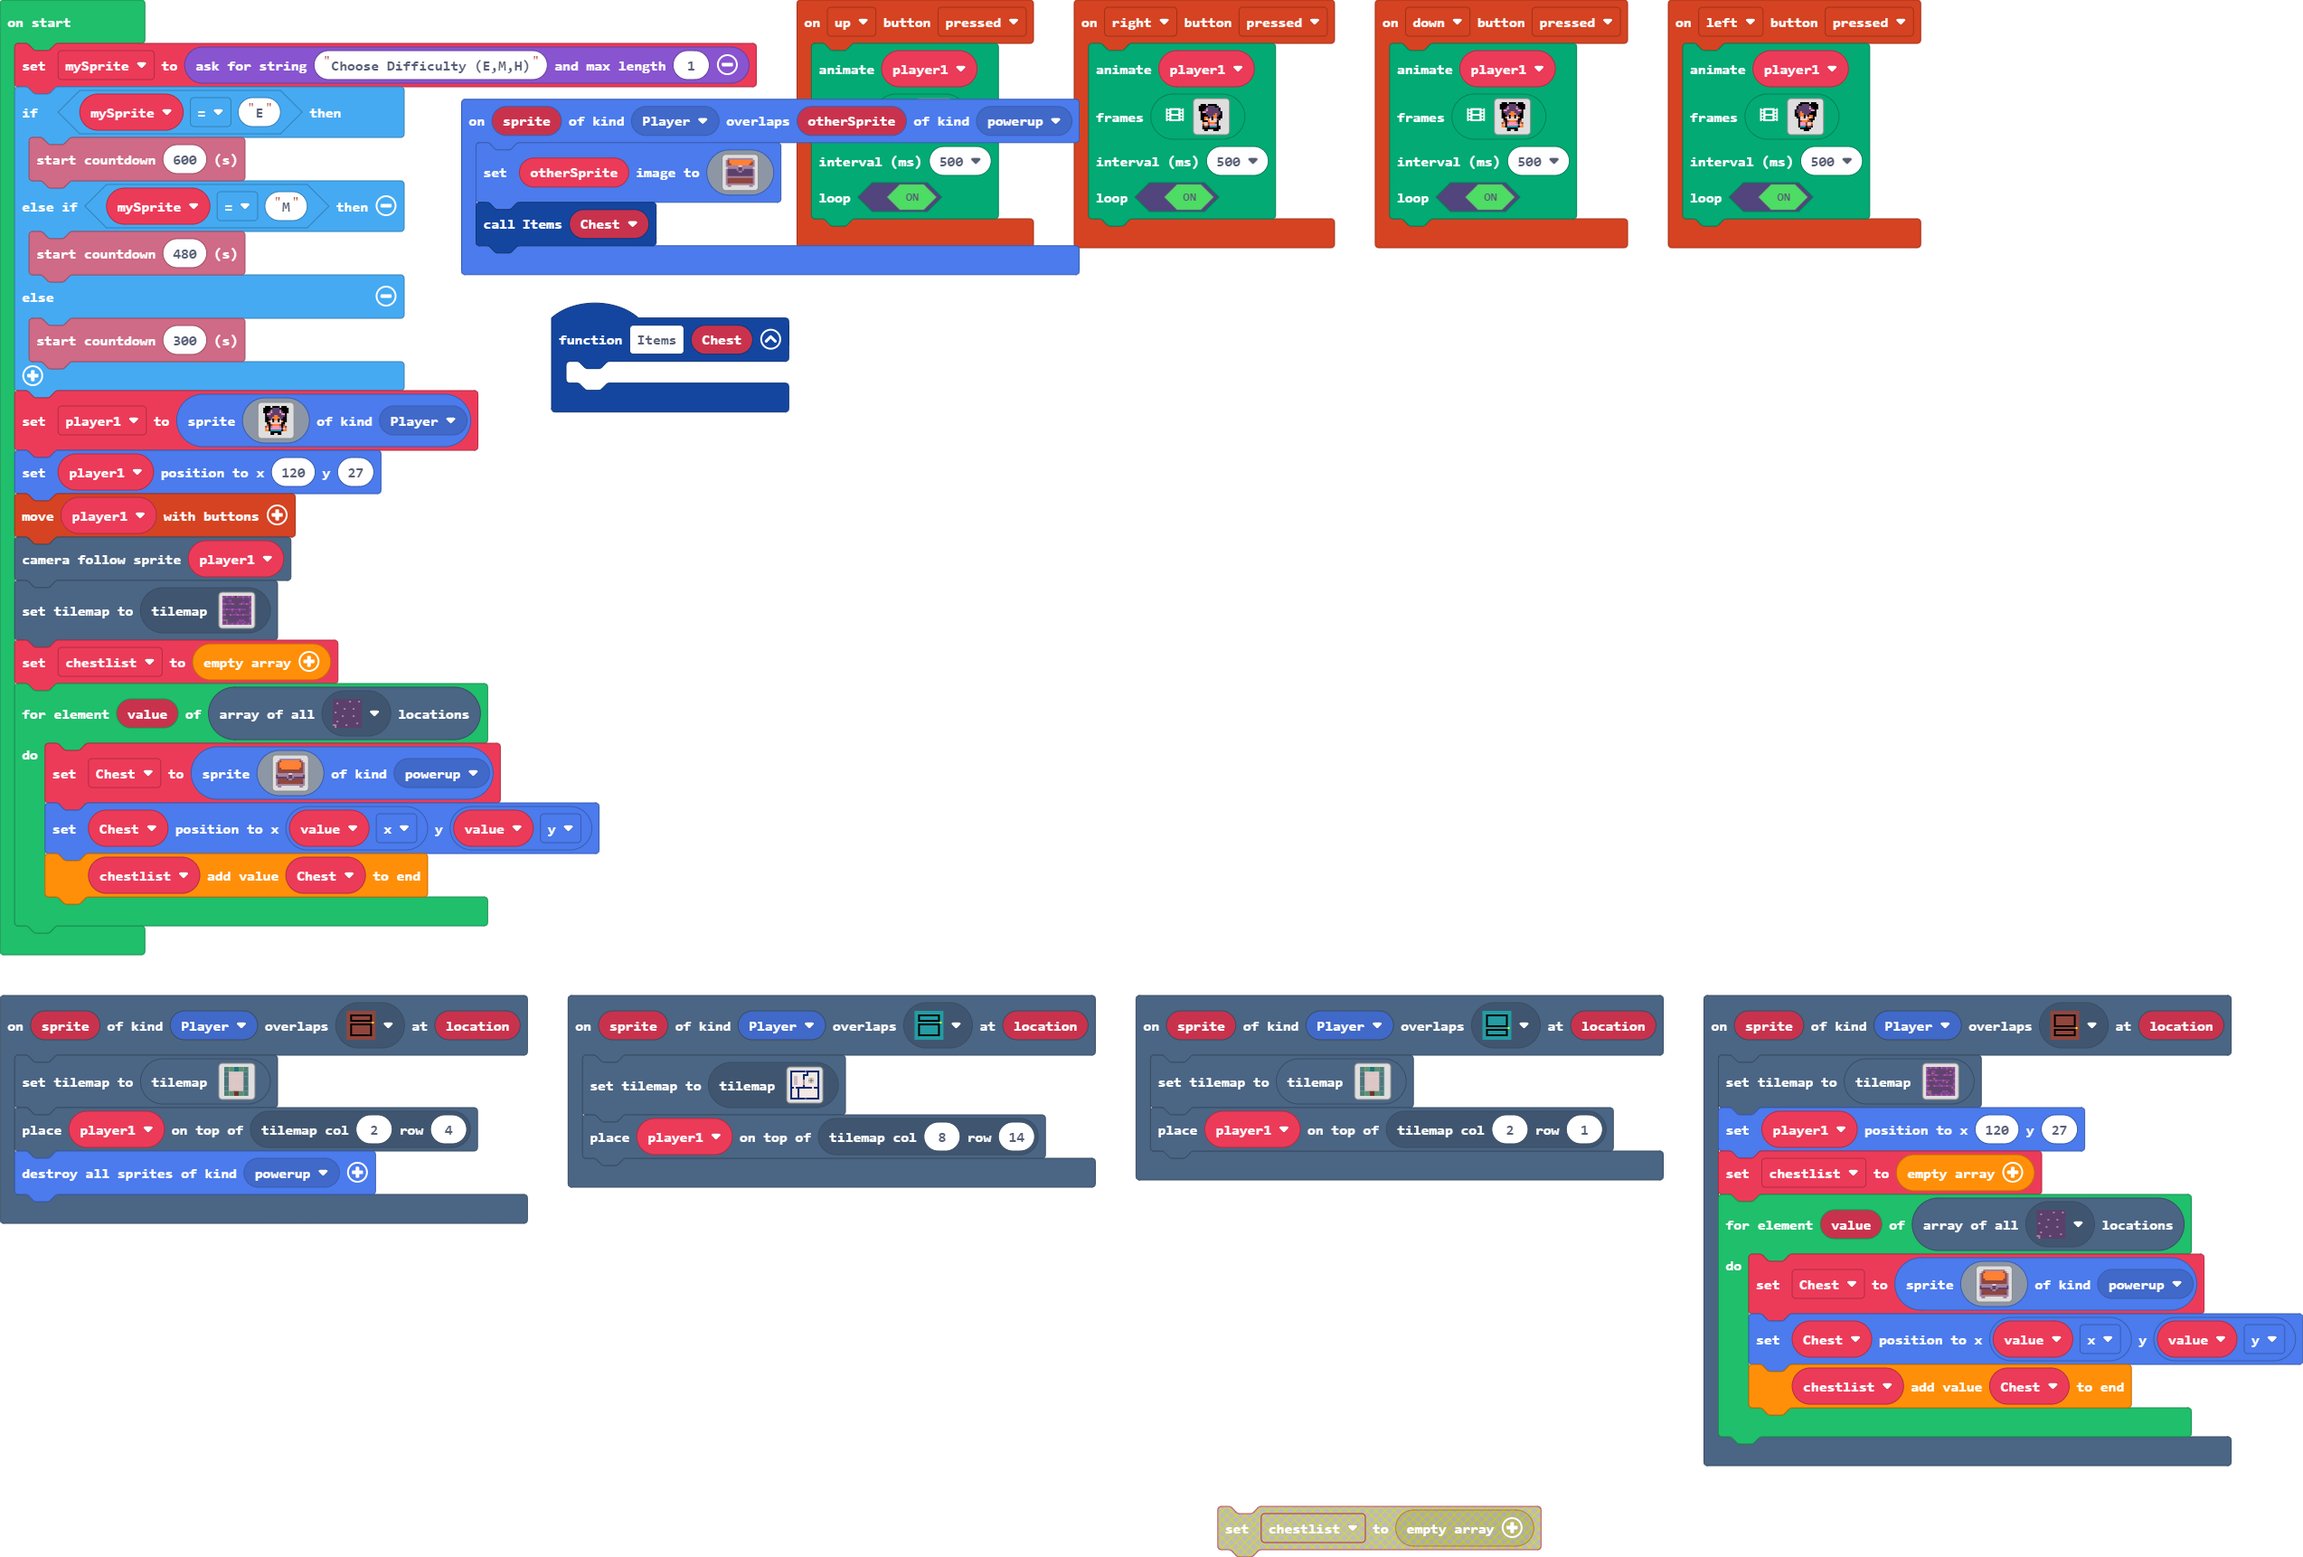
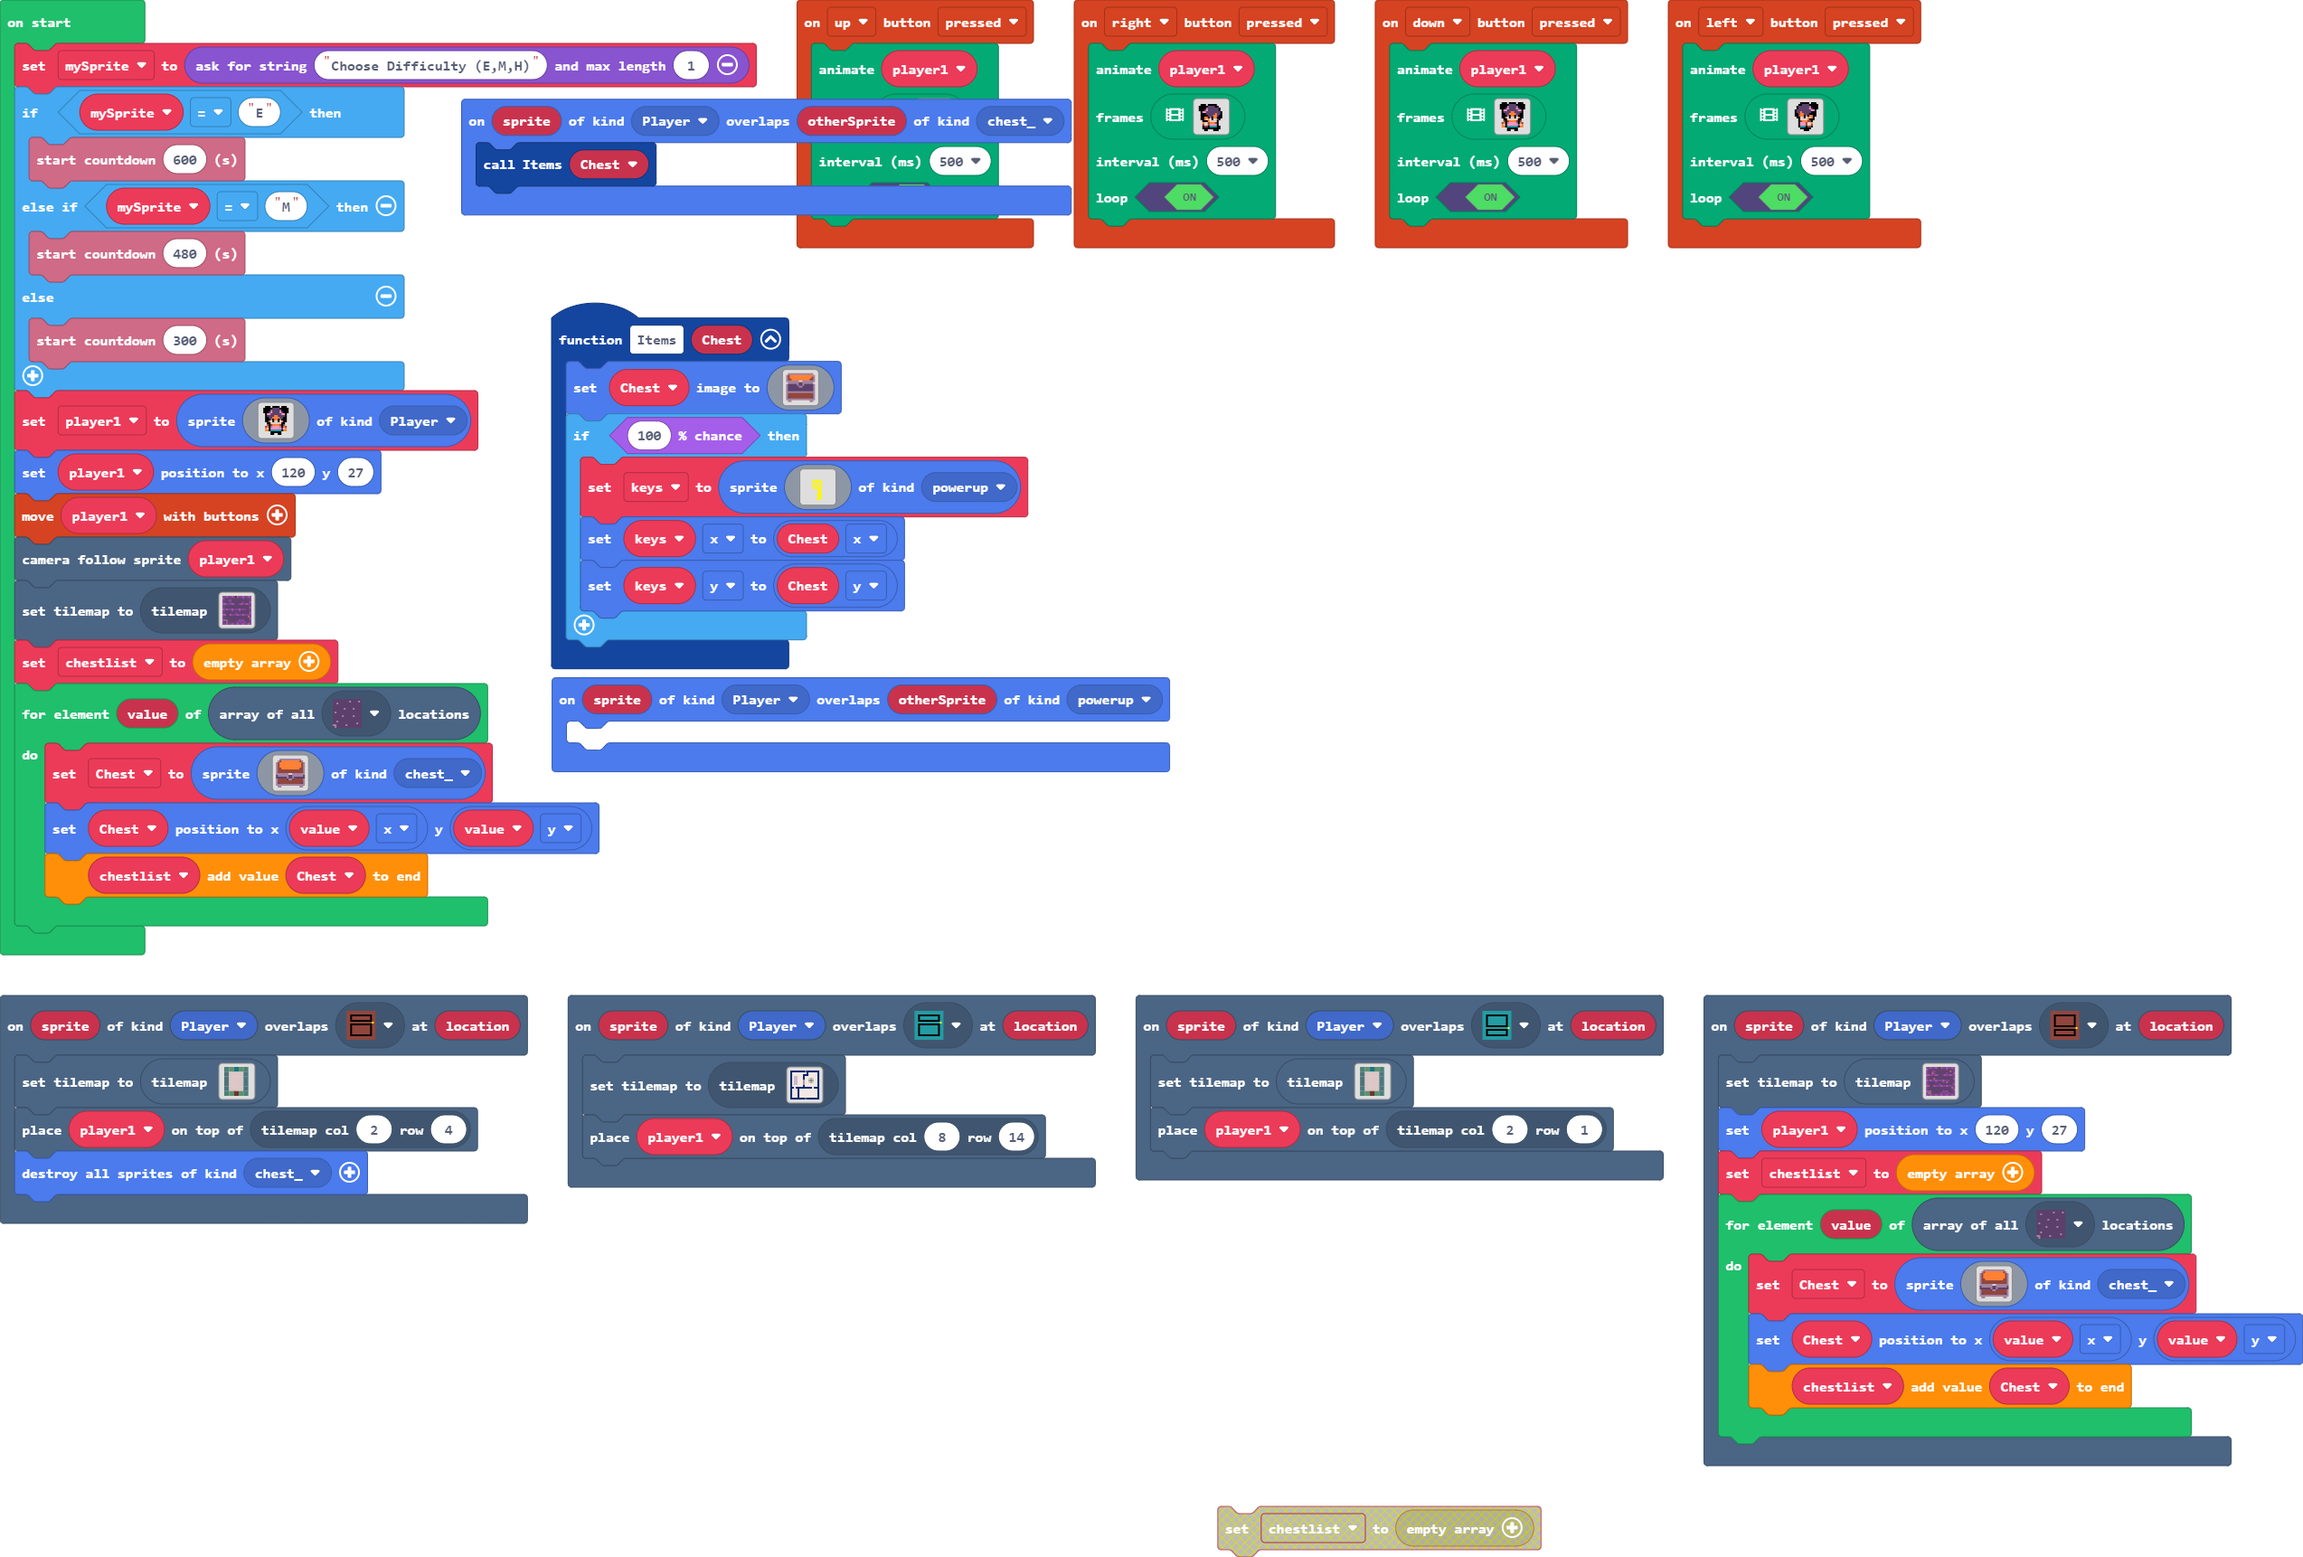
Continued from last save

diff --git a/main.ts b/main.ts
@@ -1,5 +1,6 @@
 namespace SpriteKind {
     export const powerup = SpriteKind.create()
+    export const chest_ = SpriteKind.create()
 }
 scene.onOverlapTile(SpriteKind.Player, assets.tile`myTile0`, function (sprite, location) {
     tiles.setCurrentTilemap(tilemap`level1`)
@@ -23,7 +24,7 @@ scene.onOverlapTile(SpriteKind.Player, assets.tile`myTile0`, function (sprite, l
             b c e e e e e e e e e e e e c b 
             b b b b b b b b b b b b b b b b 
             . b b . . . . . . . . . . b b . 
-            `, SpriteKind.powerup)
+            `, SpriteKind.chest_)
         Chest.setPosition(value.x, value.y)
         chestlist.push(Chest)
     }
@@ -88,16 +89,58 @@ controller.up.onEvent(ControllerButtonEvent.Pressed, function () {
     )
 })
 function Items (Chest: Sprite) {
-	
+    Chest.setImage(img`
+        . b b b b b b b b b b b b b b . 
+        b e 4 4 4 4 4 4 4 4 4 4 4 4 4 b 
+        b e 4 4 4 4 4 4 4 4 4 4 4 4 e b 
+        b e e 4 4 4 4 4 4 4 4 4 4 e e b 
+        b b b b b b b d d b b b b b b b 
+        . b b b b b b c c b b b b b b . 
+        b c c c c c b c c b c c c c c b 
+        b c c c c c c b b c c c c c c b 
+        b c c c c c c c c c c c c c c b 
+        b c c c c c c c c c c c c c c b 
+        b b b b b b b b b b b b b b b b 
+        b e e e e e e e e e e e e e e b 
+        b e e e e e e e e e e e e e e b 
+        b c e e e e e e e e e e e e c b 
+        b b b b b b b b b b b b b b b b 
+        . b b . . . . . . . . . . b b . 
+        `)
+    if (Math.percentChance(100)) {
+        keys = sprites.create(img`
+            . . . . . . . . . . . . . . . . 
+            . . . . . . . . . . . . . . . . 
+            . . . . . . . . . . . . . . . . 
+            . . . . . . . . . . . . . . . . 
+            . . . . . 5 5 5 5 5 . . . . . . 
+            . . . . . 5 . 5 . 5 . . . . . . 
+            . . . . . 5 5 . 5 5 . . . . . . 
+            . . . . . 5 . 5 . 5 . . . . . . 
+            . . . . . 5 5 5 5 5 . . . . . . 
+            . . . . . . . . 5 5 . . . . . . 
+            . . . . . . . . 5 5 . . . . . . 
+            . . . . . . . . 5 5 . . . . . . 
+            . . . . . . . 5 5 5 . . . . . . 
+            . . . . . . . . 5 5 . . . . . . 
+            . . . . . . . 5 5 5 . . . . . . 
+            . . . . . . . . . . . . . . . . 
+            `, SpriteKind.powerup)
+        keys.x = Chest.x
+        keys.y = Chest.y
+    }
 }
 scene.onOverlapTile(SpriteKind.Player, assets.tile`myTile`, function (sprite, location) {
     tiles.setCurrentTilemap(tilemap`level5`)
     tiles.placeOnTile(player1, tiles.getTileLocation(2, 4))
-    sprites.destroyAllSpritesOfKind(SpriteKind.powerup)
+    sprites.destroyAllSpritesOfKind(SpriteKind.chest_)
 })
 scene.onOverlapTile(SpriteKind.Player, assets.tile`myTile7`, function (sprite, location) {
     tiles.setCurrentTilemap(tilemap`level5`)
     tiles.placeOnTile(player1, tiles.getTileLocation(2, 1))
+})
+sprites.onOverlap(SpriteKind.Player, SpriteKind.chest_, function (sprite, otherSprite) {
+    Items(Chest)
 })
 controller.left.onEvent(ControllerButtonEvent.Pressed, function () {
     animation.runImageAnimation(
@@ -281,26 +324,9 @@ scene.onOverlapTile(SpriteKind.Player, assets.tile`myTile2`, function (sprite, l
     tiles.placeOnTile(player1, tiles.getTileLocation(8, 14))
 })
 sprites.onOverlap(SpriteKind.Player, SpriteKind.powerup, function (sprite, otherSprite) {
-    otherSprite.setImage(img`
-        . b b b b b b b b b b b b b b . 
-        b e 4 4 4 4 4 4 4 4 4 4 4 4 4 b 
-        b e 4 4 4 4 4 4 4 4 4 4 4 4 e b 
-        b e e 4 4 4 4 4 4 4 4 4 4 e e b 
-        b b b b b b b d d b b b b b b b 
-        . b b b b b b c c b b b b b b . 
-        b c c c c c b c c b c c c c c b 
-        b c c c c c c b b c c c c c c b 
-        b c c c c c c c c c c c c c c b 
-        b c c c c c c c c c c c c c c b 
-        b b b b b b b b b b b b b b b b 
-        b e e e e e e e e e e e e e e b 
-        b e e e e e e e e e e e e e e b 
-        b c e e e e e e e e e e e e c b 
-        b b b b b b b b b b b b b b b b 
-        . b b . . . . . . . . . . b b . 
-        `)
-    Items(Chest)
+	
 })
+let keys: Sprite = null
 let Chest: Sprite = null
 let chestlist: Sprite[] = []
 let player1: Sprite = null
@@ -353,7 +379,7 @@ for (let value of tiles.getTilesByType(sprites.dungeon.darkGroundNorthEast1)) {
         b c e e e e e e e e e e e e c b 
         b b b b b b b b b b b b b b b b 
         . b b . . . . . . . . . . b b . 
-        `, SpriteKind.powerup)
+        `, SpriteKind.chest_)
     Chest.setPosition(value.x, value.y)
     chestlist.push(Chest)
 }

diff --git a/tilemap.g.ts b/tilemap.g.ts
@@ -178,7 +178,7 @@ namespace myTiles {
 . . . . . . . . . . . . . . . . 
 `, [myTiles.transparency16], TileScale.Sixteen);
             case "level1":
[2 lines of base64/hex data omitted]
 2 2 2 2 2 2 2 . 2 2 2 2 2 2 2 2 
 2 . . . . . . . . . . 2 . . . 2 
 2 . . 2 2 . . . . . . . . . . 2 
@@ -195,7 +195,7 @@ namespace myTiles {
 2 2 2 . . . . . . 2 2 2 . . . 2 
 2 . 2 . . . . . 2 2 2 2 2 . . 2 
 2 2 2 2 2 2 2 2 2 2 2 2 2 2 2 2 
-`, [myTiles.transparency16,sprites.dungeon.purpleOuterNorthEast,sprites.dungeon.purpleOuterNorthWest,sprites.dungeon.purpleOuterSouthEast,sprites.dungeon.purpleOuterSouthWest,sprites.dungeon.purpleOuterSouth1,sprites.dungeon.purpleOuterEast0,sprites.dungeon.purpleOuterWest1,sprites.dungeon.purpleOuterNorth1,sprites.dungeon.darkGroundNorthWest0,sprites.dungeon.darkGroundNorthEast0,sprites.dungeon.darkGroundSouthEast0,sprites.dungeon.darkGroundSouth,sprites.dungeon.darkGroundNorth,sprites.dungeon.darkGroundEast,sprites.dungeon.darkGroundWest,sprites.dungeon.darkGroundCenter,sprites.dungeon.purpleOuterNorth2,sprites.dungeon.purpleOuterWest2,sprites.dungeon.purpleOuterSouth2,sprites.dungeon.purpleOuterEast2,myTiles.tile1,sprites.dungeon.purpleInnerNorthEast,sprites.dungeon.purpleInnerNorthWest,sprites.dungeon.purpleOuterWest0,sprites.dungeon.floorDark3,sprites.dungeon.darkGroundNorthEast1], TileScale.Sixteen);
+`, [myTiles.transparency16,sprites.dungeon.purpleOuterNorthEast,sprites.dungeon.purpleOuterNorthWest,sprites.dungeon.purpleOuterSouthEast,sprites.dungeon.purpleOuterSouthWest,sprites.dungeon.purpleOuterSouth1,sprites.dungeon.purpleOuterEast0,sprites.dungeon.purpleOuterWest1,sprites.dungeon.purpleOuterNorth1,sprites.dungeon.darkGroundNorthWest0,sprites.dungeon.darkGroundNorthEast0,sprites.dungeon.darkGroundSouthEast0,sprites.dungeon.darkGroundSouth,sprites.dungeon.darkGroundNorth,sprites.dungeon.darkGroundEast,sprites.dungeon.darkGroundWest,sprites.dungeon.darkGroundCenter,sprites.dungeon.purpleOuterNorth2,sprites.dungeon.purpleOuterWest2,sprites.dungeon.purpleOuterSouth2,sprites.dungeon.purpleOuterEast2,myTiles.tile1,sprites.dungeon.purpleInnerNorthEast,sprites.dungeon.purpleInnerNorthWest,sprites.dungeon.purpleOuterWest0,sprites.dungeon.floorDark3,sprites.dungeon.darkGroundNorthEast1,sprites.dungeon.chestClosed], TileScale.Sixteen);
         }
         return null;
     })
